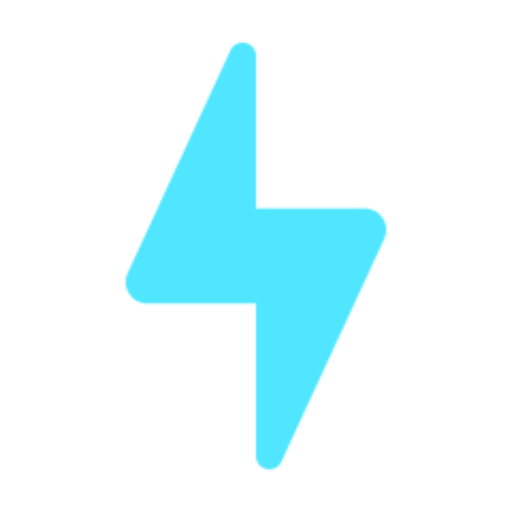
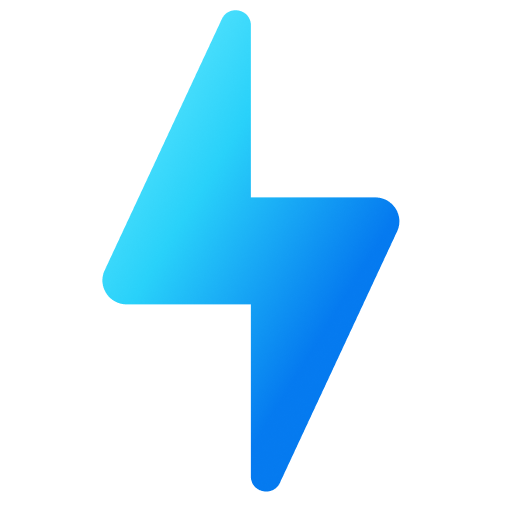
Refactor styles and update assets for improved UI design

Changed region(s): [[0.1875, 0.0, 0.7812, 0.9688]]

diff --git a/src/App.vue b/src/App.vue
@@ -115,7 +115,7 @@ onMounted(async () => {
 <style scoped>
 .page {
   min-height: 100vh;
-  background: #1B1B1F;
+  background: linear-gradient(55deg, #050E1B 0%, #071B30 55%, #0B1329 100%);
   display: flex;
   flex-direction: column;
   align-items: center;
@@ -135,8 +135,8 @@ onMounted(async () => {
   position: absolute;
   width: 72px;
   height: 72px;
-  opacity: 0.08;
-  filter: drop-shadow(0 12px 24px rgba(0, 0, 0, 0.35));
+  opacity: 0.2;
+  filter: brightness(0) saturate(100%) invert(85%) sepia(55%) saturate(600%) hue-rotate(158deg) brightness(1.1) drop-shadow(0 12px 24px rgba(115, 240, 255, 0.35));
 }
 
 .float {
@@ -274,7 +274,7 @@ onMounted(async () => {
 }
 
 .grad {
-  background: linear-gradient(120deg, #51BCFE, #BD34FE);
+  background: linear-gradient(45deg, #73F0FF 0%, #29D1FA 55%, #057AF0 100%);
   -webkit-background-clip: text;
   background-clip: text;
   color: transparent;

diff --git a/src/style.css b/src/style.css
@@ -3,6 +3,6 @@
 body {
   margin: 0;
   min-height: 100vh;
-  background: #1B1B1F;
+  background: linear-gradient(55deg, #050E1B 0%, #071B30 55%, #0B1329 100%);
   font-family: 'Ubuntu', 'Helvetica Neue', sans-serif;
 }
